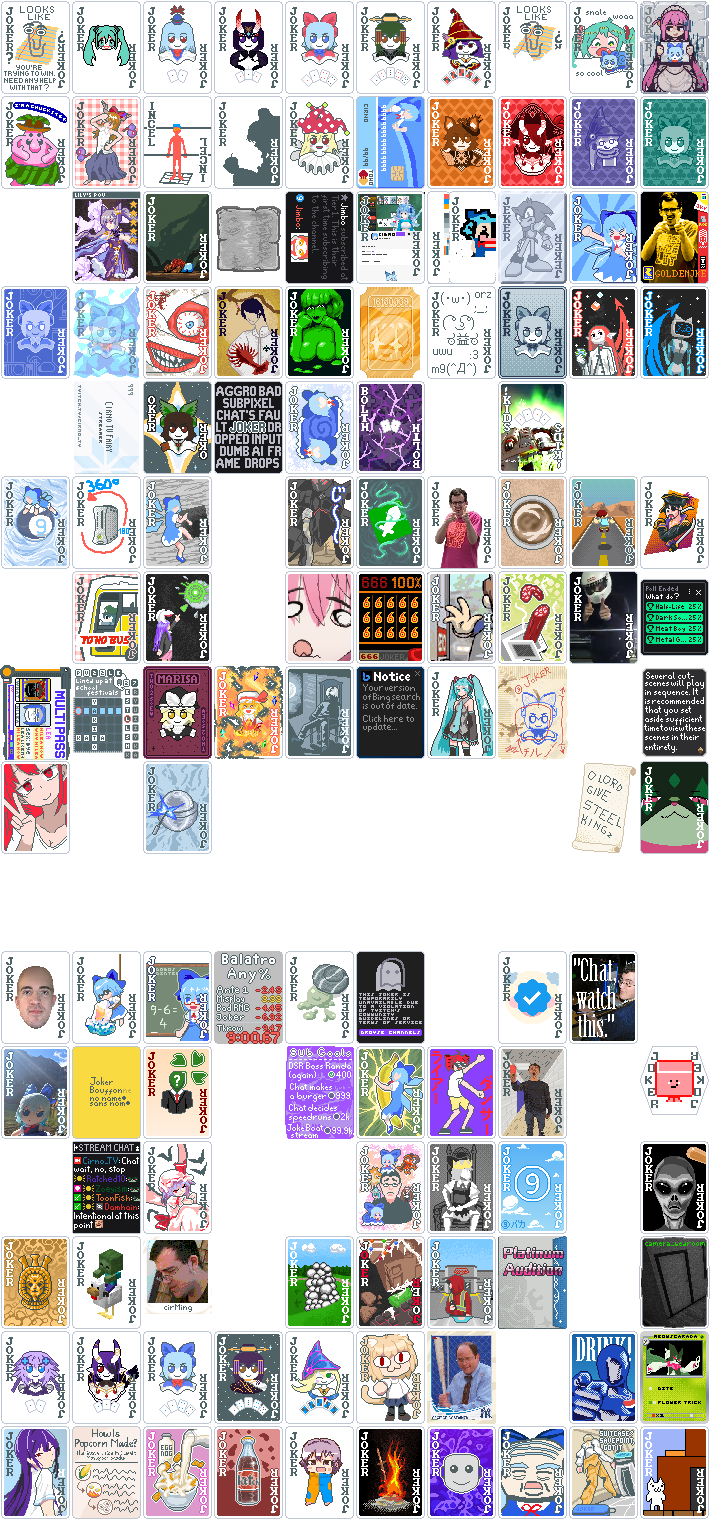
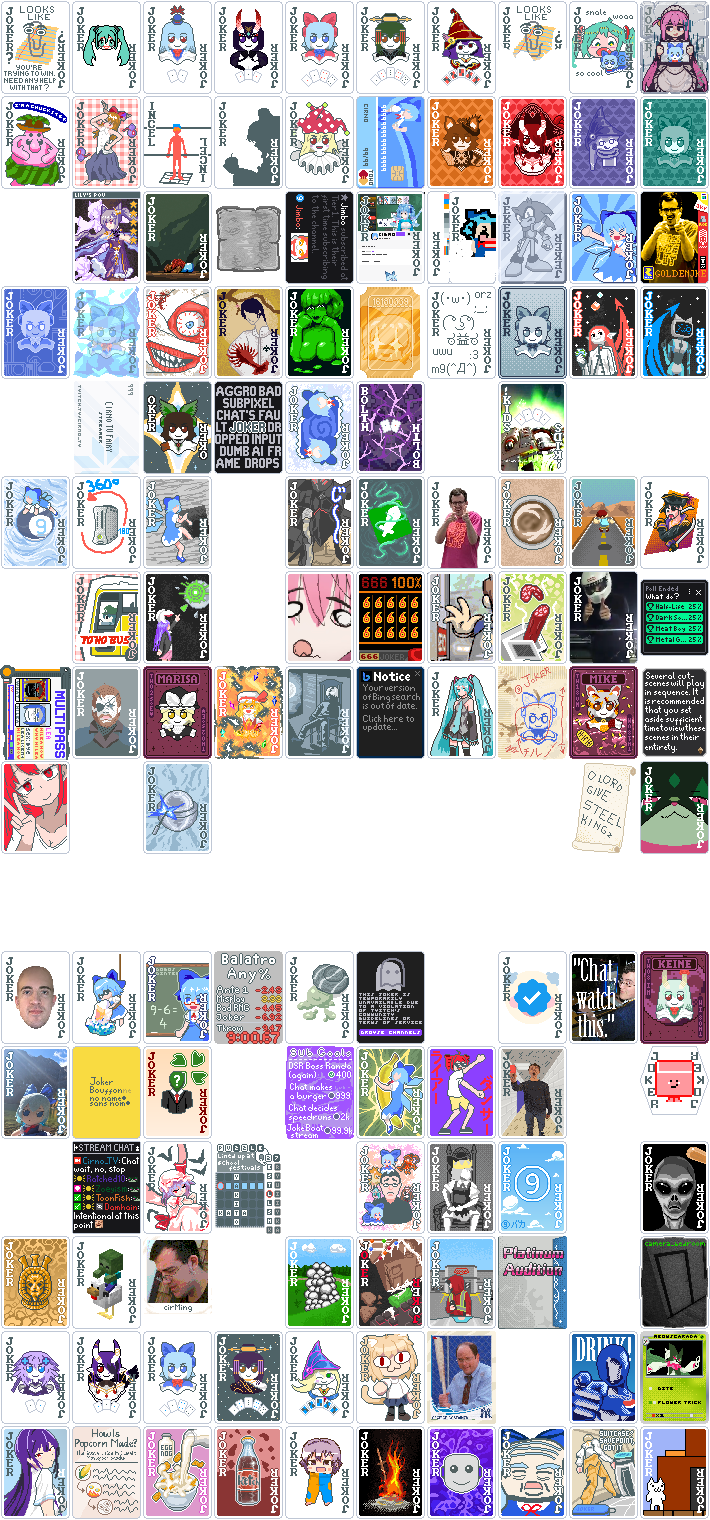
Semi-Major - Steamodded Dependency Update + Reskins
Steamodded Dependency requirement updated from 506a to 530b, the current release.

Added reskins for Bonus Card, Satellite & Constellation. Move Invisible Joker's reskin to Shortcut, added a new one in its place.

Forgot to actually do the thing that puts the Challenge Deck skin into effect last commit.

diff --git a/README.md b/README.md
@@ -17,7 +17,7 @@ DaemonTsun's art contributions are public domain - Some memes or pictures are no
 
 **Cirno_TV & Friends** currently:
 - Retextures:
-  - 131 Jokers (Some get filtered/altered by the Mature Reference setting depending on what it is set to.)
+  - 134 Jokers (Some get filtered/altered by the Mature Reference setting depending on what it is set to.)
   - All Blind Chips
   - All Seals
   - All Planet Cards
@@ -26,7 +26,7 @@ DaemonTsun's art contributions are public domain - Some memes or pictures are no
   - 14 Tags
   - 10 Tarot Cards
   - 7 Spectral Cards
-  - 4 Enhancements
+  - 5 Enhancements
   - The title screen
 
 - Renames & Alters Descriptions Of:
@@ -34,10 +34,10 @@ DaemonTsun's art contributions are public domain - Some memes or pictures are no
   - All Planet Cards
   - Most blinds
   - A significant amount of retextured Jokers
-  - 6 Tarot Cards
-  - 6 Spectral Cards
-  - 5 Tags
-  - 1 Enhancement
+  - 10 Tarot Cards
+  - 7 Spectral Cards
+  - 14 Tags
+  - 5 Enhancements
 
 - Adds:
   - Various fun flavour text to numerous items
